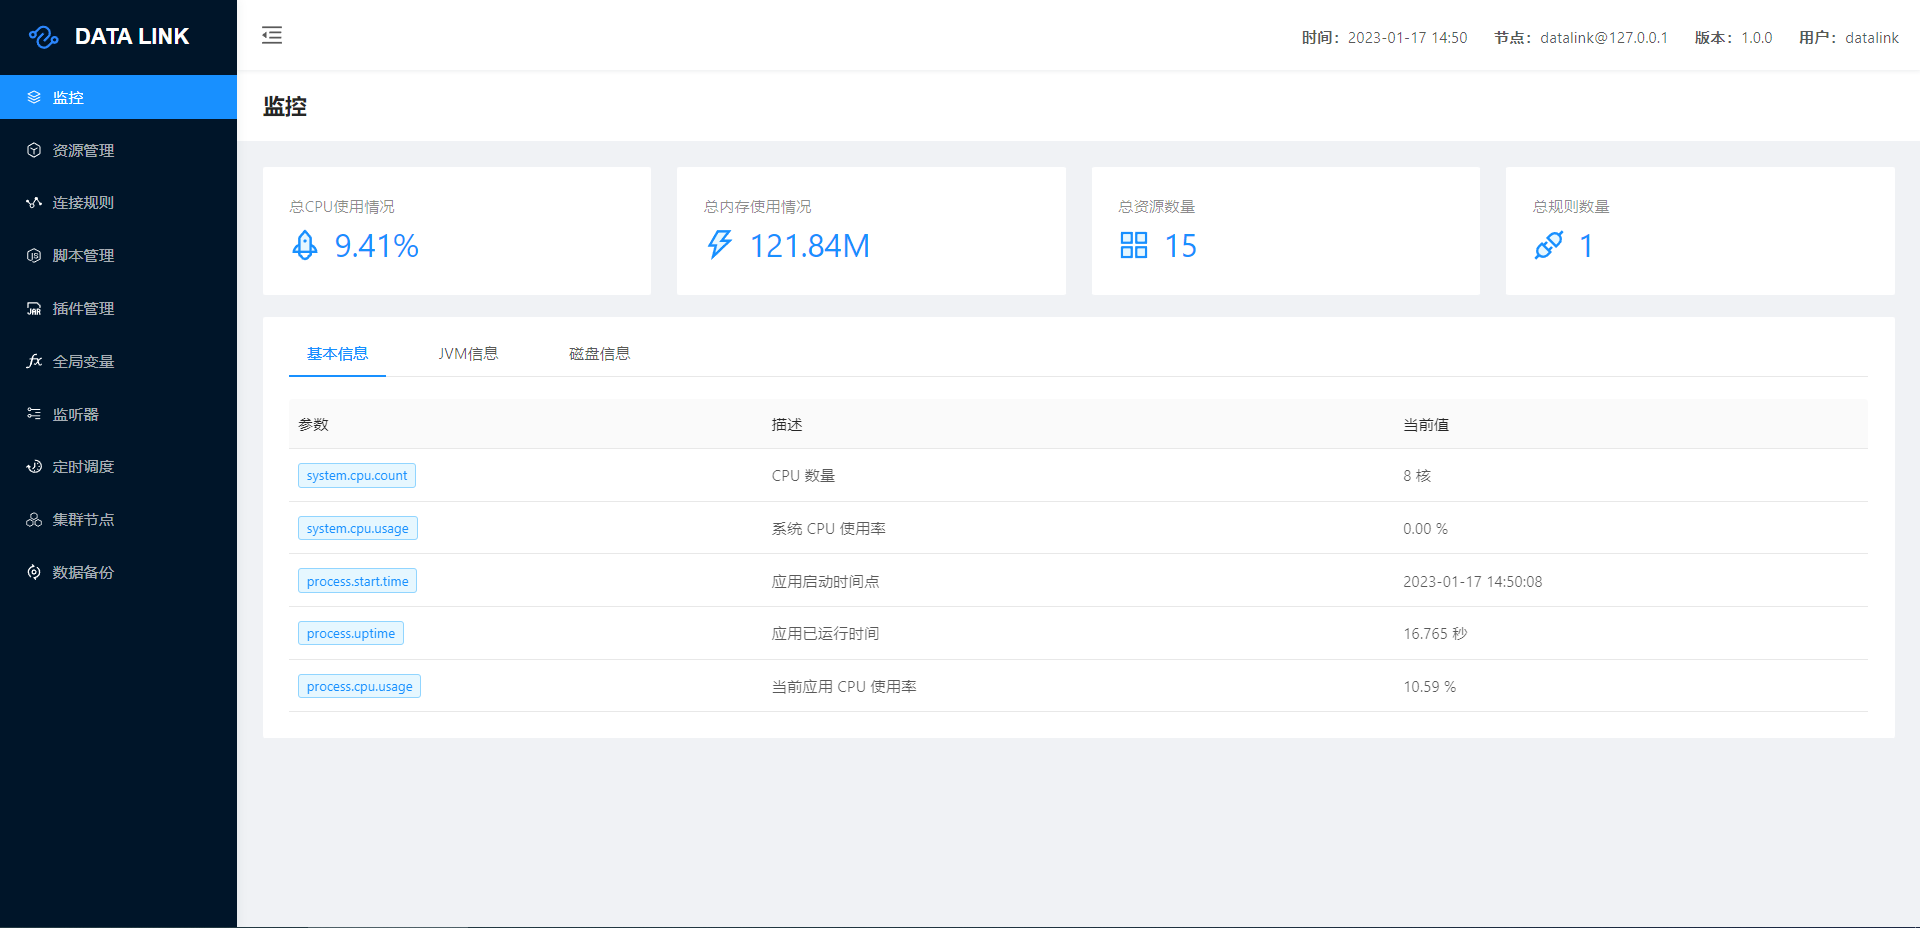
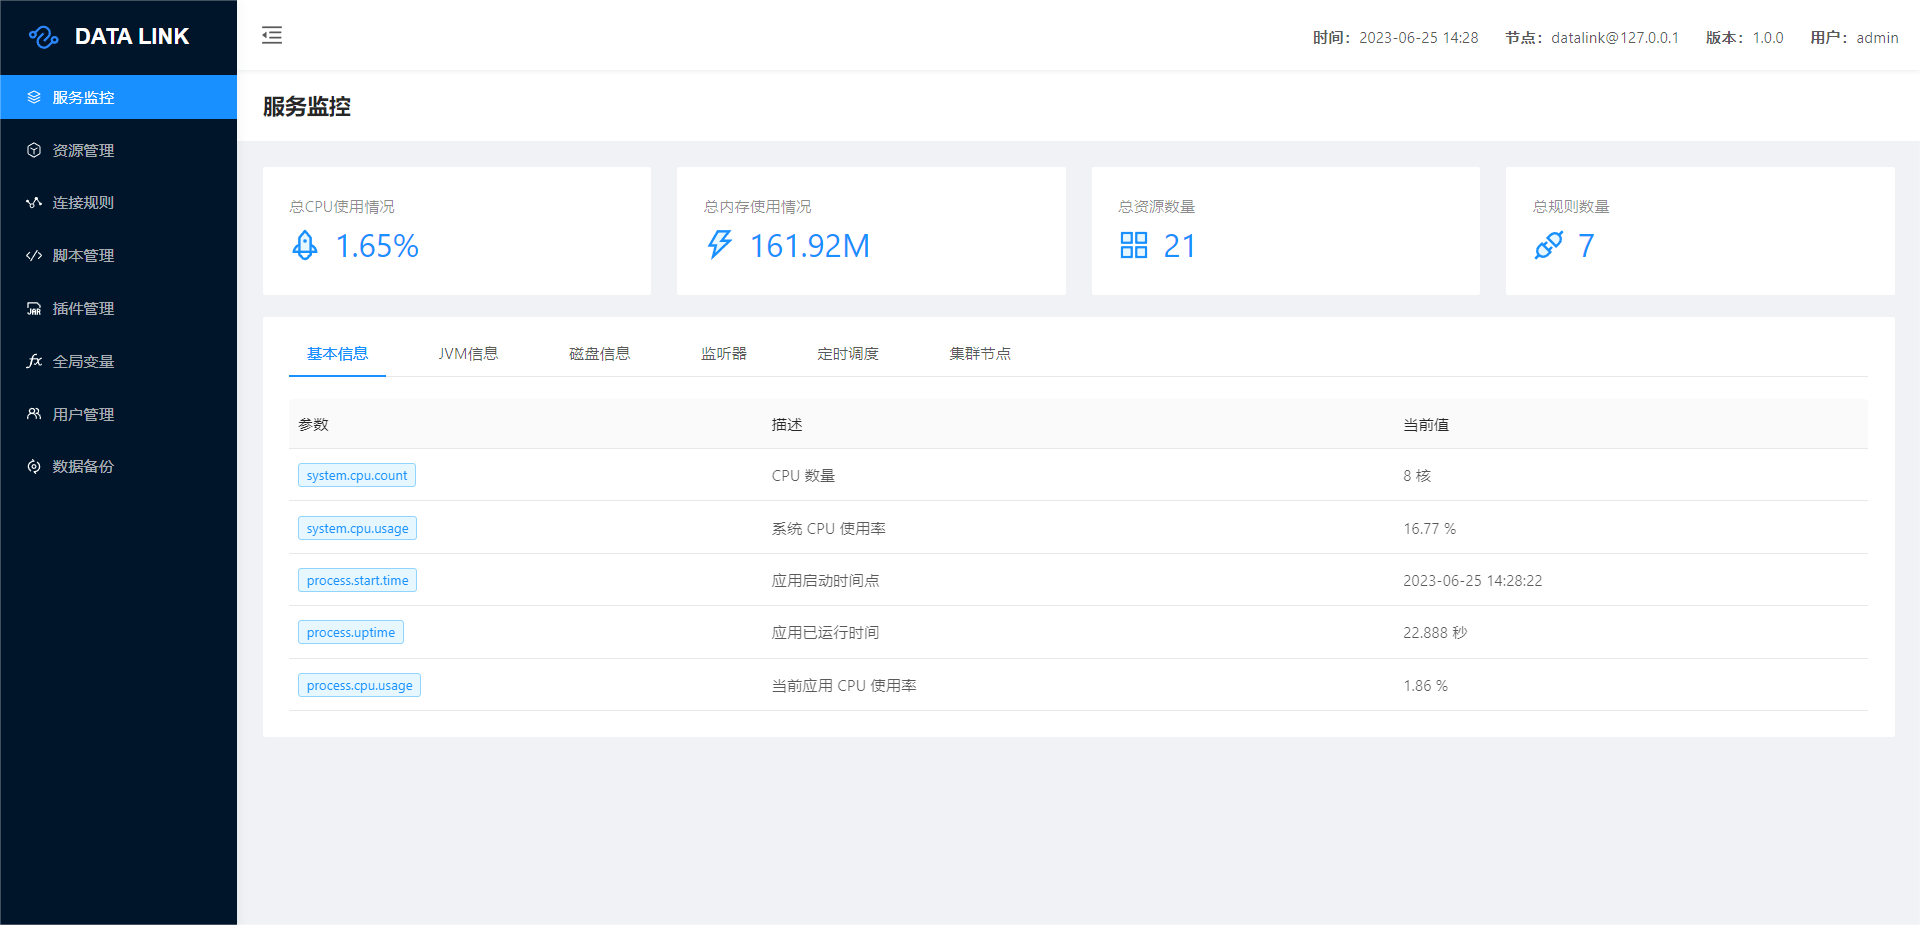
fix(core):修复时间序列化异常问题

diff --git a/datalink-core/src/main/java/com/leon/datalink/core/utils/JacksonUtils.java b/datalink-core/src/main/java/com/leon/datalink/core/utils/JacksonUtils.java
@@ -2,9 +2,7 @@
 
 package com.leon.datalink.core.utils;
 
-import cn.hutool.core.util.ClassUtil;
 import cn.hutool.core.util.ObjectUtil;
-import cn.hutool.core.util.PageUtil;
 import com.fasterxml.jackson.annotation.JsonInclude.Include;
 import com.fasterxml.jackson.core.JsonProcessingException;
 import com.fasterxml.jackson.core.type.TypeReference;
@@ -18,16 +16,15 @@ import com.fasterxml.jackson.databind.node.ObjectNode;
 import com.fasterxml.jackson.databind.type.CollectionType;
 import com.fasterxml.jackson.databind.type.MapType;
 import com.fasterxml.jackson.databind.type.TypeFactory;
+import com.fasterxml.jackson.datatype.jsr310.JavaTimeModule;
 import com.leon.datalink.core.exception.runtime.DatalinkDeserializationException;
 import com.leon.datalink.core.exception.runtime.DatalinkSerializationException;
 
 import java.io.IOException;
 import java.io.InputStream;
 import java.lang.reflect.Type;
-import java.util.Collection;
-import java.util.Enumeration;
-import java.util.List;
-import java.util.Map;
+import java.text.SimpleDateFormat;
+import java.util.*;
 
 /**
  * Json utils implement by Jackson.
@@ -41,6 +38,9 @@ public final class JacksonUtils {
     static {
         mapper.disable(DeserializationFeature.FAIL_ON_UNKNOWN_PROPERTIES);
         mapper.setSerializationInclusion(Include.NON_NULL);
+        mapper.setDateFormat(new SimpleDateFormat("yyyy-MM-dd HH:mm:ss"));
+        mapper.setTimeZone(TimeZone.getDefault());
+        mapper.registerModule(new JavaTimeModule());
     }
 
     /**

diff --git a/datalink-resource/src/main/java/com/leon/datalink/resource/driver/OpcUADriver.java b/datalink-resource/src/main/java/com/leon/datalink/resource/driver/OpcUADriver.java
@@ -86,7 +86,7 @@ public class OpcUADriver extends AbstractDriver {
                     produceData(result);
                 });
             } else {
-                Loggers.DRIVER.error("modbus read {} error: {}", tag, response.getResponseCode(tag).name());
+                Loggers.DRIVER.error("opcua read {} error: {}", tag, response.getResponseCode(tag).name());
             }
         }
     }

diff --git a/README.md b/README.md
@@ -24,7 +24,7 @@ git clone https://gitee.com/liyang9512/datalink.git
 cd datalink
 mvn -Prelease-datalink -Dmaven.test.skip=true clean install -U
 ```
-
+打包完成后安装包位于 datalink/distribution/target 目录下
 #### 安装
 
 ```bash
